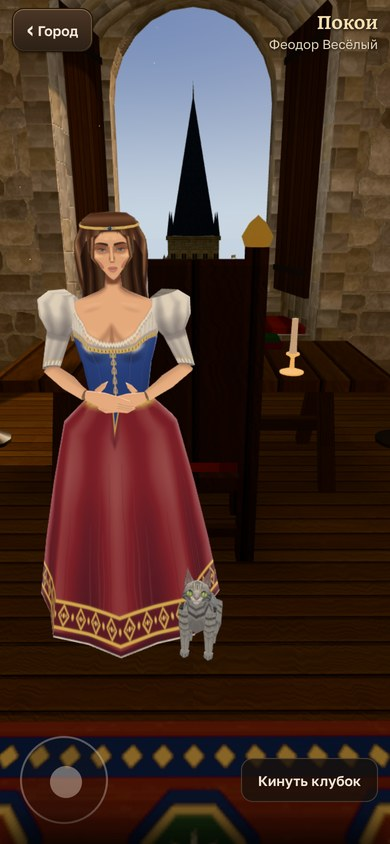
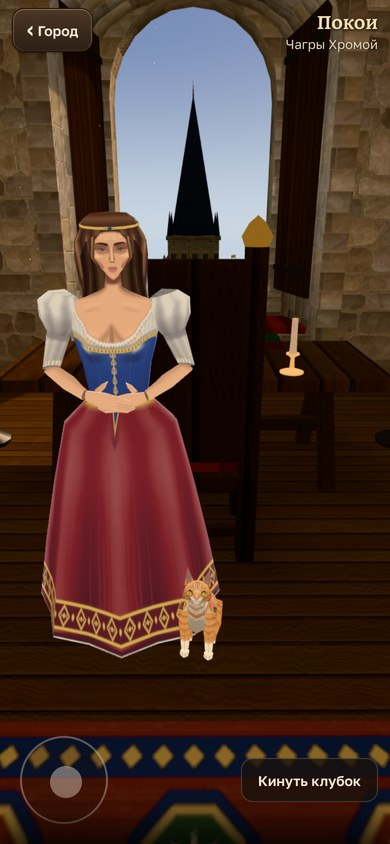
ЛЦ-4: в игре — рыжий (a, выбор оценщика 6,5/10: a — 7), буханка с лапами под телом, нутро рта не выглядывает сбоку (круг 6), стенд — прежняя ближняя плоскость (снимки людей до и после — точка в точку); раздел ЛЦ-4 в docs/characters.md, снимки задания
Claude-Session: https://claude.ai/code/session_01Goyn6Y2oCYgBv7ZaYmdpEF

diff --git a/src/render/chambers/folkstand.ts b/src/render/chambers/folkstand.ts
@@ -30,6 +30,8 @@ export interface ShotAsk {
   catClip?: 'stretch' | 'groom' | 'sleep';
   catEyes?: number;
   gaze?: [number, number];
+  /** Морда кота: поворот одного кота (камера — прежняя), рад: три четверти — около −0,6. */
+  turn?: number;
   /** Ракурс голов в листе (`sheet`, `pair`). */
   angle?: 'front' | 'three' | 'side' | 'back';
   light?: 'day' | 'night';
@@ -118,7 +120,7 @@ export function mountConsortStand(root: HTMLElement, p: URLSearchParams): void {
     }
     return f;
   };
-  const camera = new THREE.PerspectiveCamera(28, 1, 0.02, 50);
+  const camera = new THREE.PerspectiveCamera(28, 1, 0.05, 50);
 
   /** Кот в позе: тело мозга, клип с его секунды, взгляд и свет (зрачок — по свету). */
   const posCat = (id: CatId, x: number, yaw: number, a: ShotAsk): CatKit => {
@@ -145,7 +147,7 @@ export function mountConsortStand(root: HTMLElement, p: URLSearchParams): void {
 
   /** Морда кота крупно в окне `w × h` с левого края `x`. */
   const catFace = (id: CatId, a: ShotAsk, w: number, h: number, x: number, y = 0): void => {
-    const k = posCat(id, 0, a.yaw ?? 0, { ...a, catBody: a.catBody ?? 'sit' });
+    const k = posCat(id, 0, (a.yaw ?? 0) + (a.turn ?? 0), { ...a, catBody: a.catBody ?? 'sit' });
     const c0 = k.body.at('head', [0, 0.004, 0.04]);
     const c: V3 = a.aim ? [c0[0] + a.aim[0], c0[1] + a.aim[1], c0[2] + a.aim[2]] : c0;
     camera.fov = a.fov ?? 14;

diff --git a/src/render/chambers/cat.ts b/src/render/chambers/cat.ts
@@ -182,13 +182,13 @@ export function catPosture(w: Partial<Record<CatBody, number>>, l: CatLook, t: n
   const loaf = W('loaf');
   if (loaf > 0) {
     lift[1] += -0.13 * loaf;
-    // Лапы — под собой: передние сложены назад под грудь, задние — под бока.
+    // Лапы — под собой: передние сложены назад под грудь, задние — под бока (стопы — под телом, у пола: подбор числом, ЛЦ-4).
     for (const s of ['L', 'R']) {
-      add(o, `arm${s}`, 1.3 * loaf);
-      add(o, `fore${s}`, -2.55 * loaf);
-      add(o, `paw${s}`, 0.5 * loaf);
-      add(o, `thigh${s}`, -1.45 * loaf);
-      add(o, `hock${s}`, 2.65 * loaf);
+      add(o, `arm${s}`, 2.1 * loaf);
+      add(o, `fore${s}`, -2.3 * loaf);
+      add(o, `paw${s}`, 0.3 * loaf);
+      add(o, `thigh${s}`, -2.2 * loaf);
+      add(o, `hock${s}`, 2.9 * loaf);
     }
     add(o, 'neck', -0.2 * loaf);
     for (let i = 1; i <= TAIL_BONES; i++) add(o, `tail${i}`, -0.1 * loaf, 0.44 * loaf);

diff --git a/src/render/chambers/pet/coat.ts b/src/render/chambers/pet/coat.ts
@@ -268,8 +268,9 @@ function face(img: Img, look: CatLook): void {
   paintBox(img, { x0: 0, y0: h.y1 / 2, x1: 160, y1: h.y1 }, (x, y) => {
     const q = headPt(lonOf(x), latOf(y), look.head);
     const e = Math.hypot((q[0] - cc[0]) / cr[0], (q[1] - cc[1]) / cr[1], (q[2] - cc[2]) / cr[2]);
-    if (e > 1.05) return null;
-    const k = sm(1.05, 0.85, e);
+    // С запасом внутрь: край подбородка виден сбоку, и нутро под ним не должно выглядывать.
+    if (e > 0.88) return null;
+    const k = sm(0.88, 0.72, e);
     return mix(img.get(x | 0, y | 0), latOf(y) < -0.62 ? [0.6, 0.3, 0.32] : [0.2, 0.08, 0.08], k);
   });
   // Светлое кольцо вокруг глаза (у полосатых — «подводка» светлым).

diff --git a/src/render/chambers/kit/files.test.ts b/src/render/chambers/kit/files.test.ts
@@ -1,6 +1,6 @@
 // Файлы людей набора персонажа (ЛЦ-2, ЛЦ-3, docs/characters.md): чужих моделей и текстур в репозитории нет, у каждого
 // внешнего файла фигур — строка с лицензией, имён, различающихся только регистром, нет (на Windows и macOS они — один
-// файл). Общие для супруги, гонца и тех, кто придёт следом.
+// файл). Общие для супруги, гонца, кота (ЛЦ-4) и тех, кто придёт следом.
 import { describe, expect, it } from 'vitest';
 import { execFileSync } from 'node:child_process';
 import { readFileSync } from 'node:fs';

diff --git a/src/render/chambers/pet/looks.ts b/src/render/chambers/pet/looks.ts
@@ -59,7 +59,7 @@ export const CAT_LOOKS: Record<CatId, CatLook> = {
 };
 
 /** Окрас покоев — лучший по оценке (docs/characters.md, ЛЦ-4). */
-export const BEST: CatId = 'b';
+export const BEST: CatId = 'a';
 
 /** Окрас по адресу (`?cat=a|b|c`), иначе — лучший. */
 export function catOf(search: string | null = typeof location !== 'undefined' ? location.search : null): CatId {

diff --git a/docs/characters.md b/docs/characters.md
@@ -449,3 +449,215 @@ GAME=1 WX=clear WXDAY=0.45 CHAMBERS=at:0:-0.2:0:-0.1 SIZE=390x844 \
 Открытое — раздел 16: оценка лица 6,5/10 против порога 8, три слабых места там же.
 
 ЛЦ-3: ГОТОВО — всё по заданию, кроме порога оценки лица: 6,5/10 против 8 (раздел 16, что осталось — там же).
+
+
+# Кот в покоях в стиле людей набора (ЛЦ-4)
+
+Рабочий раздел ветки `game/lc-4` от `master` `223cdbb` (21.10.2026, облако). Код кота — `src/render/chambers/pet/` (фигура,
+лист, живость, клубок), мозг — прежний `src/render/chambers/cat.ts`, набор — `src/render/chambers/kit/` (расширен, не
+скопирован), стенд — `src/render/chambers/folkstand.ts` (`npm run consort:shots`, виды `catface`, `catduo`, `cats`, `catposes`).
+
+## 22. Что сделано
+
+- **Кот с клубком заменены своими фигурами на наборе персонажа.** Кот — сетка в два веса (`kit/skin.SkinBody`), лист окраса
+  512 × 512 кодом, материал набора (свет нарисован в листе, общий свет покоев — `kit/light.roomLight`), один вызов отрисовки.
+  Клубок — шар одной костью и нитка тонкой лентой на том же листе (`pet/index.yarnMesh`), крутит и катит его жизнь покоев, как
+  прежде.
+- **Поведение, пути и звуки прежние.** Мозг кота (`Cat`: думать, идти, прыгать, мяукать, мурчать, за клубком в окно) не
+  тронут; меняется только тело. Мозг ходит на голом скелете (`cat.bareRig`), пока кусок фигуры в пути, и надевает её
+  (`Cat.dress`), когда кусок приехал (`ChambersLife.catReady`). У живости фигуры — своя кость: тест «мозг прежний» гоняет мозг
+  40 с с фигурой и без и сверяет дорогу (`pet/pet.test.ts`). Тесты покоев, клубка в окно, двора и глаз к гостю прошли с новой
+  фигурой; в тестах, что бросают клубок, добавлено ожидание куска (`await room.life.catReady`) — как у гонца.
+- **Набор расширен, люди не изменились.** Прозрачность вершин (`SkinMesh.fade`, атрибут `fade` и `figureMaterial(…, fade)` —
+  только у кота), ячейка листа глаза (`SkinBody.cell` — зрачок), сырая освещённость точки из `roomLight` (зрачку) и мазки
+  шерсти по полю направлений (`kit/fur.furStrokes`). Отпечаток супруги (`consort/print.test.ts`) и новый отпечаток гонца
+  (`herald/print.test.ts`, снят на `223cdbb`) совпали; 11 снимков стенда супруги и гонца до и после — точка в точку
+  (`CMP=.consort-shots/before,.consort-shots/after npm run consort:shots`).
+- **Три окраса** (`pet/looks.ts`): «a» — рыжий полосатый, «b» — серый полосатый, «c» — чёрно-белый. В игре — «a» (`BEST`,
+  выбор оценщика — раздел 28); два других — флагом адреса `?cat=b|c`.
+- **Своим ленивым куском** «кот» (`vite.config.ts`, дверь `pet/index.ts`); первая загрузка не выросла (раздел 26).
+
+## 23. Облик, кости и экономия
+
+Домашний кот, слегка стилизованный: голова чуть крупнее живой (сфера с выпуклостями по направлениям — `figure.headRadius`:
+морда, подушечки усов, глазницы, надбровье, щёки), большие глаза (яблоко 13,5 мм, видимая чашечка — раствор 58°), пушистые
+щёки (зубцы края по скулам через точку), пышный хвост (кольца с поворотом через одно — рваный край шерсти, кисточка на конце),
+манишка зубцами на груди и шее.
+
+- **25 костей** (`cat.catSkeleton`, тест — 20…26): позвоночник 3 (корпус-корень, грудь, таз), шея, голова, челюсть, веки (одна
+  кость на оба глаза), уши по одной, хвост 4, лапы по три (плечо, предплечье, кисть; бедро, скакательный сустав, стопа).
+  Мозг и фигура — один скелет (тест).
+- **1068 треугольников** у каждого окраса, одна сетка на всех уровнях (тест — 600…1200; число — сообщение `life.test.ts` при
+  мутации потолка, раздел 29); прежний кот — 1182 / 1442 / 1774 на «Низком», «Среднем», «Высоком» (`buildCat` на `223cdbb`,
+  щупом в отдельной рабочей копии — команда в разделе 30).
+- **До двух весов на вершину** (`skin.MAX_WEIGHTS`, тест); каждая кость держит хоть одну вершину (тест).
+- Веки — чашка чуть больше глаза: поднята под лоб на `LID_CLOSE` и опускается поворотом вокруг оси через оба глаза.
+  Челюсть — подбородок своей костью: открыт рот — под ним тёмное нутро, нарисованное на голове ровно там, где её закрывает
+  подбородок. Усы — три полоски с подушечки на сторону, у корня непрозрачность 0,55, к концу — ноль; грани усов — последними, и
+  фигура рисуется в проходе прозрачных одним вызовом (тест).
+
+## 24. Лист
+
+Один лист 512 × 512 на окрас (`pet/coat.paintCat`, раскладка — `figure.SHEET`): голова сферой (долгота — от носа к затылку,
+широта — синусом: у экватора, где морда, точек больше), туловище, шея, хвост, лапы, ячейки глаза и века, уши, подбородок, усы,
+клубок. Половины зеркальны. **Морда плотнее туловища больше чем в полтора раза** по точкам листа на метр (тест).
+
+Порядок, как у людей набора: тон окраса по маскам (светлые грудь, брюхо, морда, «носки»), светотень формы (свет по спине,
+на лбу и спинке носа; тень под брюхом, под подбородком, за скулой — `pelt`: тень глубже и насыщенней того же тона, у чёрного
+свет лишь блеском), узор полос — свой генератор (`coat.tabby`: «макрель» от хребта к брюху с изгибом и расщеплением, ремень
+по хребту, кольца на лапах и хвосте, «М» на лбу; ширина на голове — в миллиметрах шерсти по плотности листа), черты морды
+(обводка глаз с толстой верхней кромкой, светлое кольцо, слёзная дорожка, мочка носа, «якорь» рта, складка подушечек), мазки
+шерсти по течению (`kit/fur`) — тоном из-под себя. Тест: спина светлее нижнего бока, у полосатых есть полосы, у чёрно-белого —
+нет.
+
+## 25. Глаза и живость
+
+- **Глаза** — чашечки на ячейке листа: радужка с волокнами, тёмным ободком, светлым кольцом у зрачка, тенью века сверху, бликом
+  окна и отблеском снизу. Зрачок — три ячейки (щель, вполовину, круглый); выбирает сырая освещённость у головы: днём у окна —
+  щель, ночью при свечах — круглый, на охоте за клубком — шире, с запасом у порогов (тест «зрачок в покоях» — в настоящих покоях
+  днём и ночью). Взгляд (`SkinBody.gaze`) идёт к тому, куда хочет мозг (правитель рядом, клубок), раньше головы, с мелкими
+  скачками; во сне — прямо. Моргание — мозга, как было (веки по `look.eyes`).
+- **Клипы ключами** (`pet/motion.ts`, ключи набора `kit/motion`), поверх позы мозга:
+  - **потянуться** — встал с лежанки и стоит: передние вперёд, грудь к полу, зад и хвост вверх, зевок, потом задние назад;
+  - **умываться** — сидит: лизнуть лапу, провести по морде к уху, дважды; пошёл — бросил;
+  - **спать клубком** — бока дышат, голова глубже;
+  - **подёргивать ушами и кончиком хвоста** — сами, во сне чаще.
+- Позы мозга подогнаны к новой фигуре: «сидит» — морда прямо (вверх её ведёт взгляд), «буханкой» — лапы под телом (подбор
+  числом), хвост — четыре звена вместо пяти.
+
+Лист поз — `docs/characters/lc4-poses.jpg`.
+
+## 26. Бюджет
+
+Сборка — `npm run build`, числа куска — строки vite той же сборки (кБ = 1000 байт); «до» — сборка `223cdbb` в отдельной рабочей
+копии, «после» — `a8e0b04`.
+
+| | до (`223cdbb`) | после | чем мерено |
+| --- | --- | --- | --- |
+| первая загрузка | 620,4 КБ | 620,4 КБ | опись `npm run build` |
+| кусок покоев `Chambers-*.js` | 294,93 кБ, gzip 108,98 | 292,15 кБ, gzip 108,04 | строка vite той же сборки |
+| кусок кота | — (прежний кот — в куске покоев) | 27,32 кБ, gzip 12,13 | там же |
+| набор (общие куски) | 37,80 кБ, gzip 16,02 (`motion-*`) | 21,12 кБ, gzip 9,04 (`motion-*`, у всех троих) + 17,26 кБ, gzip 7,47 (`face-*`, у супруги и гонца) | там же |
+| куски супруги и гонца | 26,64 и 35,79 кБ | 26,67 и 35,81 кБ | там же |
+| кот: треугольники | 1182 / 1442 / 1774 | 1068 на всех уровнях | раздел 23 |
+| кадр покоев с супругой и котом (Средний, днём) | 39 вызовов, 296 283 треугольника | 39 вызовов, 295 909 | `city:shots`, строка «кадр» (команда — раздел 30) |
+| видеопамять листа кота | — | 512 × 512 × 4 Б × 4/3 (мипы) ≈ 1,4 МБ | по размеру листа |
+
+Кадр покоев с котом ночью «до» не мерян; «после» — 47 вызовов, 397 120 треугольников вместе с городом за окном (тот же заход).
+Цена кадра (`BENCH=`) не мерялась: облачная видеокарта — программная.
+
+## 27. Круги морды
+
+Каждый круг — морда кота крупно 512 × 512 рядом с лицами супруги и гонца в том же свете (`docs/characters/lc4-face-r*.jpg`,
+1536 × 512), главные отличия, правка. Оценка — одна, в конце, независимым агентом (раздел 28).
+
+| Круг | Что правилось |
+| --- | --- |
+| r1 | щель зрачка прямая (развёртка чашечки без перекоса), глаза вперёд — 12° наружу вместо 22°, поднятое веко не выглядывает; «М» на лбу шириной по плотности листа (полосы в 7 точек были полуторамиллиметровыми) |
+| r2 | плоскости света и тени на морде, мочка носа крупнее, нутро рта — только под подбородком |
+| r3 | размах светотени головы (свет лба, тень за скулой), темнее нутро уха, зубцы щёк заметнее |
+| r4 | чёрный «фрак» без серого света, белая манишка спереди (у шеи угол 0 — горло, а не загривок), верхняя кромка глаза, складка подушечек |
+| r5 | переносица, мягче и круглее подбородок |
+| r6 | нутро рта не выглядывает сбоку из-под подбородка (в три четверти) |
+
+Шесть кругов — потолок задания; два подряд без улучшения не было.
+
+## 28. Оценка и что осталось
+
+Оценщик — свежий агент, не видевший работы, только по трём картинкам (`lc4-faces.jpg`, `lc4-faces-three.jpg`, `lc4-duo.jpg`):
+**6,5/10** против цели 7. По окрасам: **a — 7**, b — 6,5, c — 6; лучший — «a»: полосы ложатся по форме головы и шеи, тёплая
+гамма роднит его с людьми, светлые грудь и морда читаются. В игре — «a».
+
+По заданию не дожимаю. Три слабых места — с них начинать следующий заход:
+
+1. **Силуэт угловатый**: голова читается гранёным шестиугольником, пучки щёк не выходят за контур, подбородок с мордой — отдельным
+   светлым «кирпичиком», шея и грудь — колонной (по середине груди виден шов развёртки), тело в три четверти — коробкой.
+   Нужны рваные пучки щёк за силуэтом, скруглённый переход морды в голову, «жабо» на груди и треугольники на контур (в запасе —
+   132 до потолка 1200).
+2. **Морда мультяшнее людей**: рот «улыбкой» (w), обводка глаз линией, глаза крупноваты рядом с реалистичными лицами людей.
+   Нейтральная короткая линия рта, тень века вместо обводки, глаза на 10–15 % меньше.
+3. **Нарисованного света меньше, чем у людей**: тон морды почти ровный, нет тени под подбородком на груди; уши — плоские пластины
+   без кисточек и тёмной кромки; полосы на лбу у «a» и «b» — параллельной гребёнкой. Светлая макушка с уходом в тень книзу,
+   тень подбородка на грудь, кисточки и кромка ушей, неровные полосы по черепу.
+
+Ещё замечено мной: клубком во сне кот раскидывает лапы (поза мозга `curl` старая; буханку подогнал, клубок — нет); усы ровные и
+длинные — сузить к концу и изогнуть.
+
+## 29. Тесты и мутации
+
+Тесты — `src/render/chambers/pet/pet.test.ts` (17), `herald/print.test.ts` (5: отпечаток гонца на `223cdbb`),
+`consort/print.test.ts` (5), `kit/files.test.ts` (3: файлы — для всех людей набора и кота), `life.test.ts` («бюджет живых»:
+кот 600…1200). Каждая мутация — правкой строки на ветке (`9900f94`…`a8e0b04`, файлы — на последнем коммите), по одной, прогнан файл теста, правка
+откачена (`.consort-shots/probe/mutate.py` — щуп в неотслеживаемой папке, таблица ниже — его вывод); упал тест, держащий правило,
+на утверждении, которое его держит.
+
+| Мутация | Упал тест | Сообщение |
+| --- | --- | --- |
+| хвост — 30 колец вместо 9 | потолок треугольников 600…1200 | a: 1320 > 1200 |
+| две лишние кости у таза | скелет: 20…26 костей | 27 > 26 |
+| `skin.MAX_WEIGHTS` 2 → 3 | не больше двух весов | 3 ≠ 2 |
+| голова в листе втрое реже | морда плотнее туловища | «морда 755, туловище 858»: 0,88 < 1,5 |
+| полос нет и у полосатых | свет и тень нарисованы; узор у полосатых есть | «a: полосы»: 0,055 < 0,12 |
+| тень под брюхом и свет спины выключены | там же | «b: спина светлее нижнего бока»: 0,410 < 0,468 |
+| зрачок не круглеет ночью | зрачок: щель, вполовину, круглый; зрачок в покоях | 1 ≠ 2 |
+| зрачок по цвету фигуры, а не по свету | зрачок в покоях | «ночь»: 2,20 > 1,02 |
+| веко в покое не поднято | веки: сомкнутые — на глазу | 0,0106 > 0,003 |
+| взгляд без опережения | взгляд ведёт голову | 0,00047 < 0,002 |
+| усы непрозрачны у корня | усы — полоски с прозрачностью | 1 > 0,75 |
+| усы — не последними | там же | «грань 998»: false |
+| материал кота без прозрачности | материал кота прозрачен | false ≠ true |
+| клубок — две кости | клубок — одна кость | длина 2 ≠ 1 |
+| потянуться: передние не вперёд | потянуться | «передние вперёд»: −0,15 > −0,9 |
+| умываться: лапа не к пасти | умываться | «лапа у пасти»: 0,164 > 0,06 |
+| сон без дыхания | сон клубком — бока дышат | «дышит»: 0 < 0,03 |
+| во сне уши — реже | там же | «во сне уши чаще»: 8 < 10 |
+| живость берёт кость мозга | мозг прежний | дороги разошлись |
+| набор меняет гонца: `paint.COOL` 0,30 → 0,32 | `herald/print.test.ts`: листы обликов a, b | '36bb80be' ≠ 'e63be987' |
+| в покоях — потолок кота 1000 | `life.test.ts`: бюджет живых | «кот a»: 1068 > 1000 |
+| файл `assets-src/cat.mdx` в индексе | чужих моделей нет | `['assets-src/cat.mdx']` |
+| лишний снимок кота в `docs/characters/` без строки здесь | строка с лицензией у каждого файла | «строки в docs/characters.md нет» |
+| файл `docs/Characters.md` рядом с `docs/characters.md` | имён, различающихся регистром, нет | пара найдена |
+
+Мутация лишнего снимка сначала выжила: строка этой таблицы называла файл рядом со словом «лицензия», и тест находил её —
+строка переписана без имени файла. Ещё две мутации сначала выжили (правило 11): «потянуться» — вынос лап держала и соседняя ключевая поза (мутация теперь снимает его во
+всех ключах), «умываться» — тест мерил весь клип, и лапу у пасти давал ключ «провести»; тест сужен до ключа «лизнуть» — граница
+области названа и проверена утверждением в тесте.
+
+## 30. Файлы, лицензии и как смотреть
+
+Чужих файлов нет: ни моделей, ни текстур, ни снимков образца; все снимки — рендеры нашей сцены нашим кодом.
+
+- `docs/characters/lc4-face-r*.jpg` — лицензия: собственный рендер проекта, права — у владельца, как у всего репозитория;
+  лица супруги и гонца и морда кота крупно, 1536 × 512, по кругам морды (r1…r6).
+- `docs/characters/lc4-faces.jpg` (лицензия: собственный рендер) — морды трёх окрасов (a, b, c) анфас.
+- `docs/characters/lc4-faces-three.jpg` (лицензия: собственный рендер) — то же в три четверти.
+- `docs/characters/lc4-duo.jpg` (лицензия: собственный рендер) — лица супруги и гонца и морда кота «a» в одном свете.
+- `docs/characters/lc4-cats.jpg` (лицензия: собственный рендер) — три окраса рядом: в рост и морда, 390 × 844.
+- `docs/characters/lc4-chambers-day.jpg` (лицензия: собственный рендер) — кот «a» у ног супруги в покоях днём, 390 × 844.
+- `docs/characters/lc4-chambers-night.jpg` (лицензия: собственный рендер) — то же ночью при свечах.
+- `docs/characters/lc4-poses.jpg` (лицензия: собственный рендер) — кот по позам и клипам: стоит, идёт, сидит, умывается,
+  тянется, буханкой, спит клубком.
+
+```bash
+export CHROME=/opt/pw-browsers/chromium-1194/chrome-linux/chrome
+W=1536 H=512 ASK='{"view":"catduo","cats":["a"]}' npm run consort:shots      # лица людей и морда кота рядом
+W=512 H=512 ASK='{"view":"catface","cats":["a"],"turn":-0.6}' npm run consort:shots   # морда в три четверти
+W=390 H=844 ASK='{"view":"cats"}' npm run consort:shots                     # три окраса рядом
+W=1200 H=600 ASK='{"view":"catposes","cats":["a"]}' npm run consort:shots   # позы и клипы
+GAME=1 WX=clear WXDAY=0.45 CHAMBERS=at:0:-0.2:0:-0.38 SIZE=390x844 \
+  LIFE='[{"who":"wife","at":{"x":0.3,"z":1.75,"yaw":3.14}},{"catAt":{"x":-0.02,"z":1.38,"yaw":3.0}}]' \
+  TAG=lc4 npm run city:shots                                                 # кот у ног супруги; ночь — WXDAY=0.85
+```
+
+Прежний кот по уровням — `buildCat(d, 1).m.b.triangleCount` на `223cdbb` (в отдельной рабочей копии). Стенд — dev-сервер
+(`?showcase=consort`), в сборке его нет; каждый заход — один, не дольше двух минут, с минутой остывания видеокарты. В игре
+окрас кота — `?cat=a|b|c`.
+
+## 31. Передача
+
+Коммиты — `git log --oneline 223cdbb..game/lc-4`. Приёмки отчётами не было (облако; по заданию — `npm test`,
+`npm run typecheck`, `npm run build` по одному); **последний принятый — как записано у `master`** (docs/handbook/acceptance.md).
+Ядро не тронуто: сохранение, договор и мир — как были; правка — в периферии (`src/render/chambers/`, `scripts/city-shots.ts`,
+`vite.config.ts`, документы). Память устройства о коте (`LifeMemory`) — прежняя.
+
+Открытое — раздел 28: оценка 6,5/10 против цели 7, три слабых места там же.
